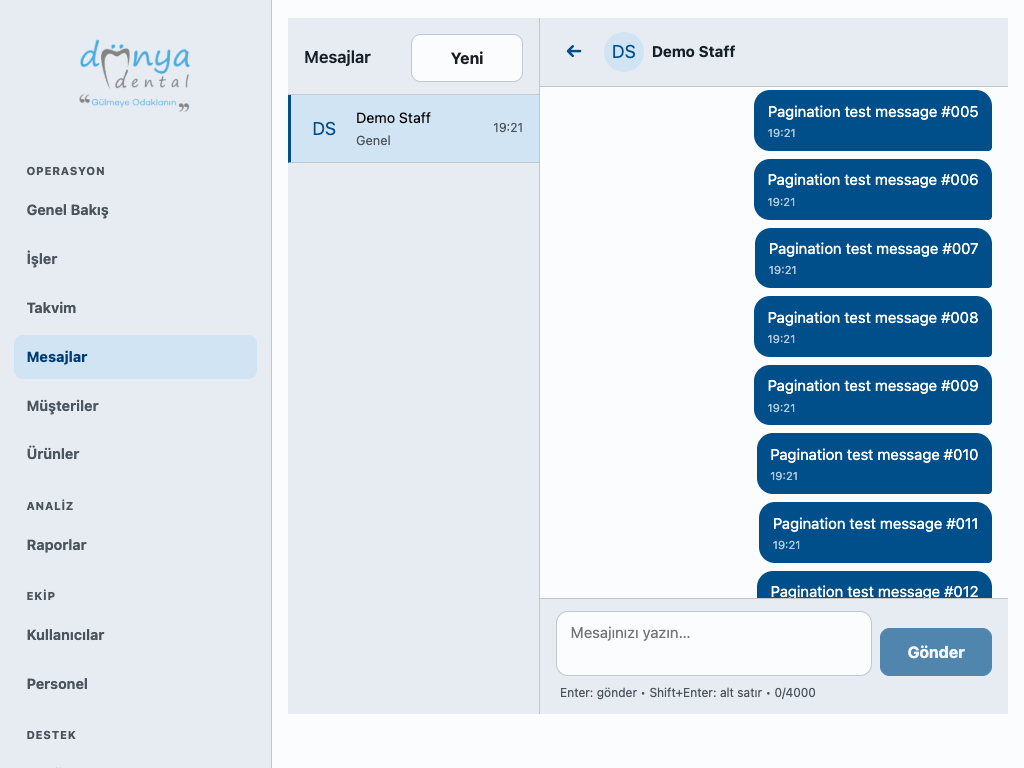
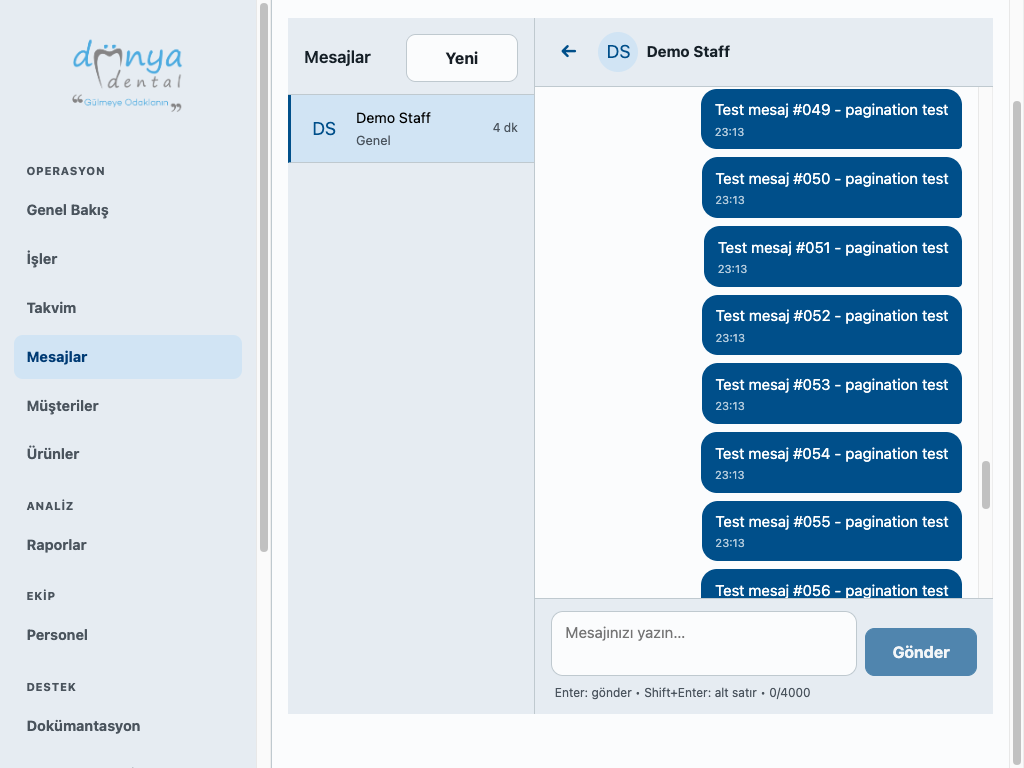
fix: set scrollMode to none before setOlderLoading to prevent intermediate bottom scroll
Root cause: setOlderLoading(true) triggered a render that consumed the previous 'bottom' scroll mode before the preserve mode was activated. Fix: set scrollModeRef='none' BEFORE any state update.

diff --git a/web/src/messaging/MessagingPage.tsx b/web/src/messaging/MessagingPage.tsx
@@ -186,7 +186,6 @@ export function MessagingPage({ user }: { user: CurrentUser }) {
 
   const handleLoadOlder = useCallback(async () => {
     if (!selectedId || !olderCursor || olderLoading) return;
-    setOlderLoading(true);
 
     const gen = ++olderGenRef.current;
     const request: OlderRequest = { gen, convId: selectedId, cursor: olderCursor };
@@ -195,6 +194,10 @@ export function MessagingPage({ user }: { user: CurrentUser }) {
     const log = threadMessagesRef.current;
     const prevHeight = log?.scrollHeight ?? 0;
     const prevTop = log?.scrollTop ?? 0;
+
+    // Set mode BEFORE any state update to prevent intermediate renders from scrolling to bottom
+    scrollModeRef.current = 'none';
+    setOlderLoading(true);
 
     try {
       const page = await listMessages(selectedId, olderCursor);
